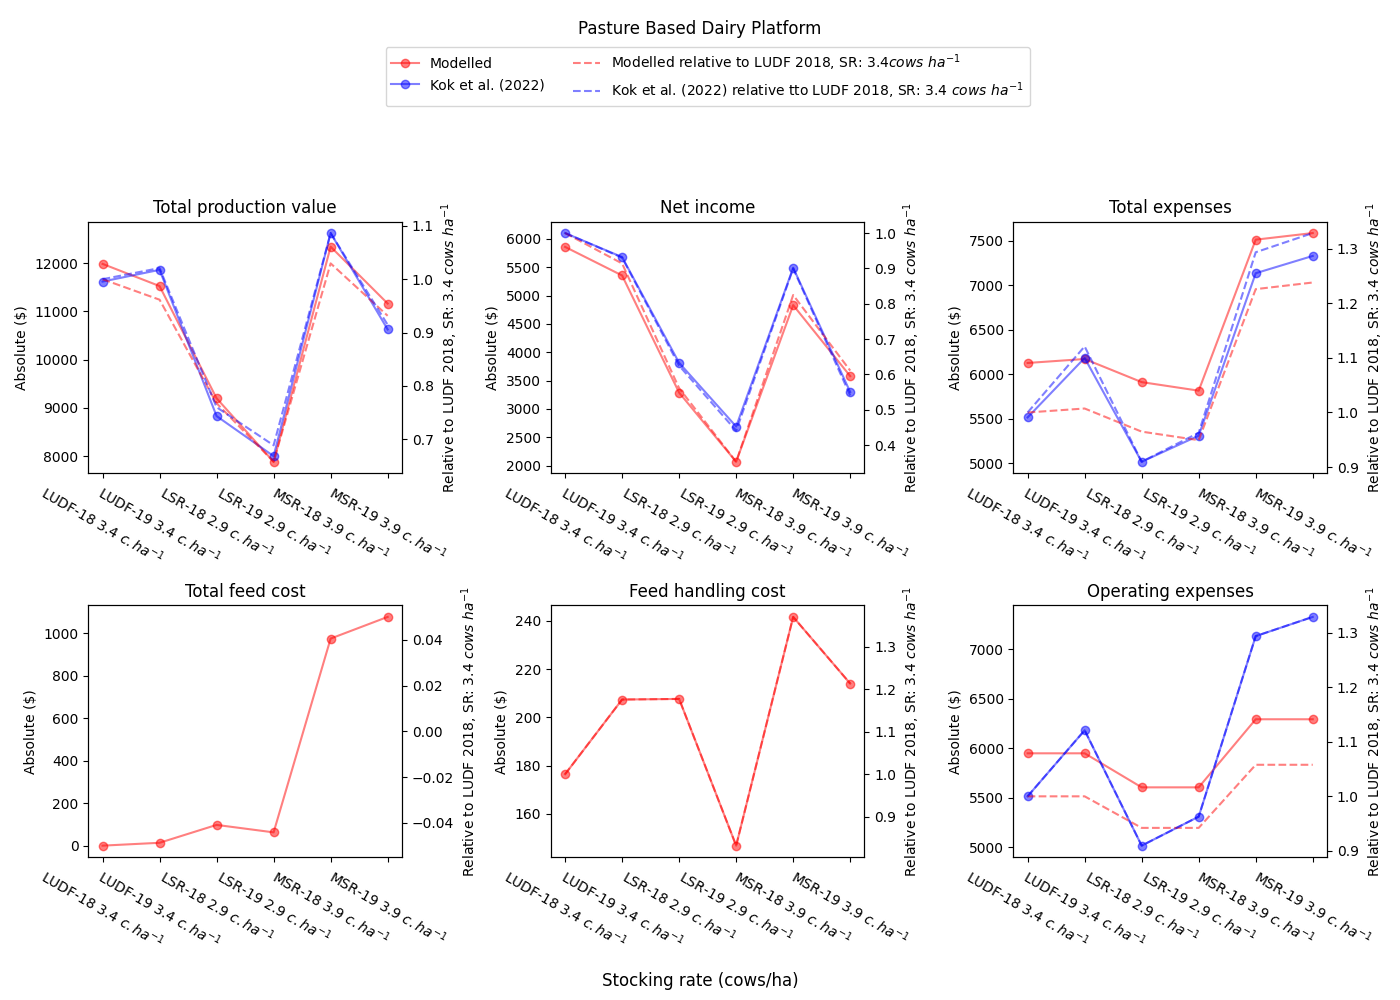
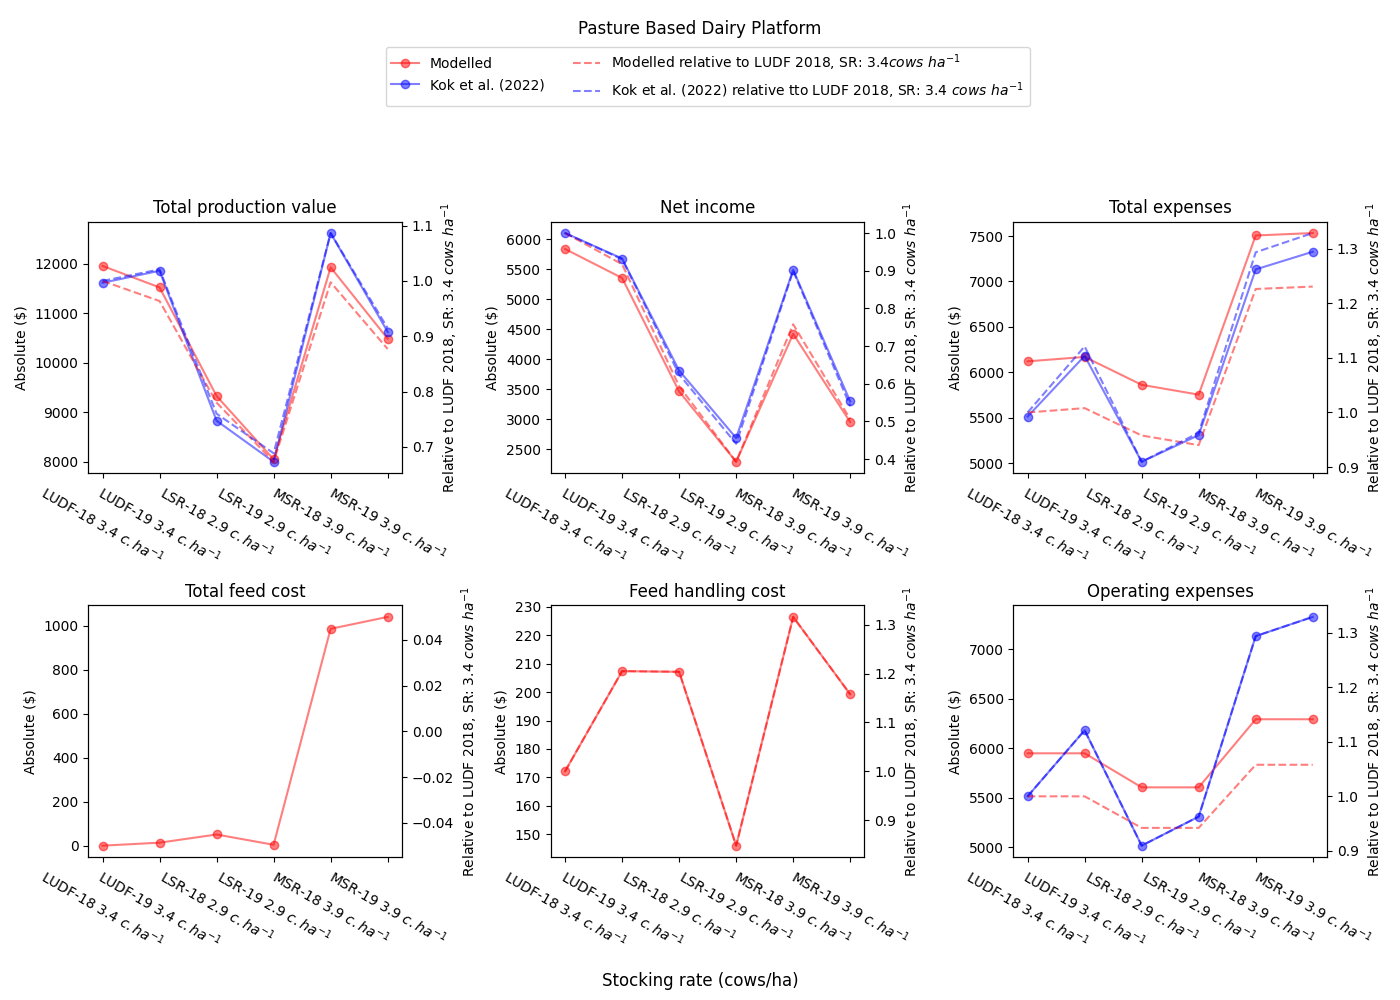
minor tweaks to the kok et al validation

diff --git a/dairy_model_validataion/kok_et_al_2022.py b/dairy_model_validataion/kok_et_al_2022.py
@@ -183,8 +183,8 @@ def make_data_silage_ifeed(explore_plot=False):
 
             ifeed = silage_supplement[i] * mj_per_kg_dm + ifeed_adder
 
-            ifeed_based_on_dif = {'LUDF': 1000, 'LSR': 575,
-                                  'MSR': 1200}  # todo THIS REALLY HELPS THERE MUST BE "PASTURE STORED FEED"
+            ifeed_based_on_dif = {'LUDF': 1000, 'LSR': 650,
+                                  'MSR': 1000}  # todo THIS REALLY HELPS THERE MUST BE "PASTURE STORED FEED"
             cs = {'LUDF': 7, 'LSR': 5, 'MSR': 15}
             dm = NoRepsDMNoSupHandle(all_months, istate=[0], pg=use_pg,
                                      ifeed=[ifeed + ifeed_based_on_dif[farm0] * stock_rate * mj_per_kg_dm],
@@ -325,7 +325,25 @@ def unmodified_comparison(explore_plot=False):
 
 # todo save final plots, write up, and re-run tests
 
+def plot_pgr():
+    fig, ax = plt.subplots(figsize=(6, 4))
+    colors = { 'MSR':'r', 'LSR':'b', 'LUDF':'orange'}
+    lss = {2018:'-', 2019:':'}
+    for farm0, year0 in zip(farm, year):
+        ax.plot(range(len(all_months)), get_pgr(year0, farm0), label=f'{farm0}-{year0}', color=colors[farm0], ls=lss[year0], alpha=0.75)
+    ax.legend()
+    ax.set_ylabel('Pasture Growth Rate ($kgDM~ha^{-1}day^{-1}$)')
+    ax.set_xlabel('Month')
+    ax.set_xticks(range(len(all_months)))
+    ax.set_xticklabels(all_months)
+    ax.set_ylim(0,100)
+    fig.tight_layout()
+    fig.savefig(outdir.joinpath('03_pgr.png'))
+
+
+
 if __name__ == '__main__':
+    plot_pgr()
     unmodified_comparison()  # todo this looks great!
     make_data_no_pg_system()  # todo looking pretty good, even in money space (once feed handling cost is removed)
     make_data_silage_ifeed()  # todo this matches pretty perfectly, but there is some silliness with the ifeed and the feed handling costs...
